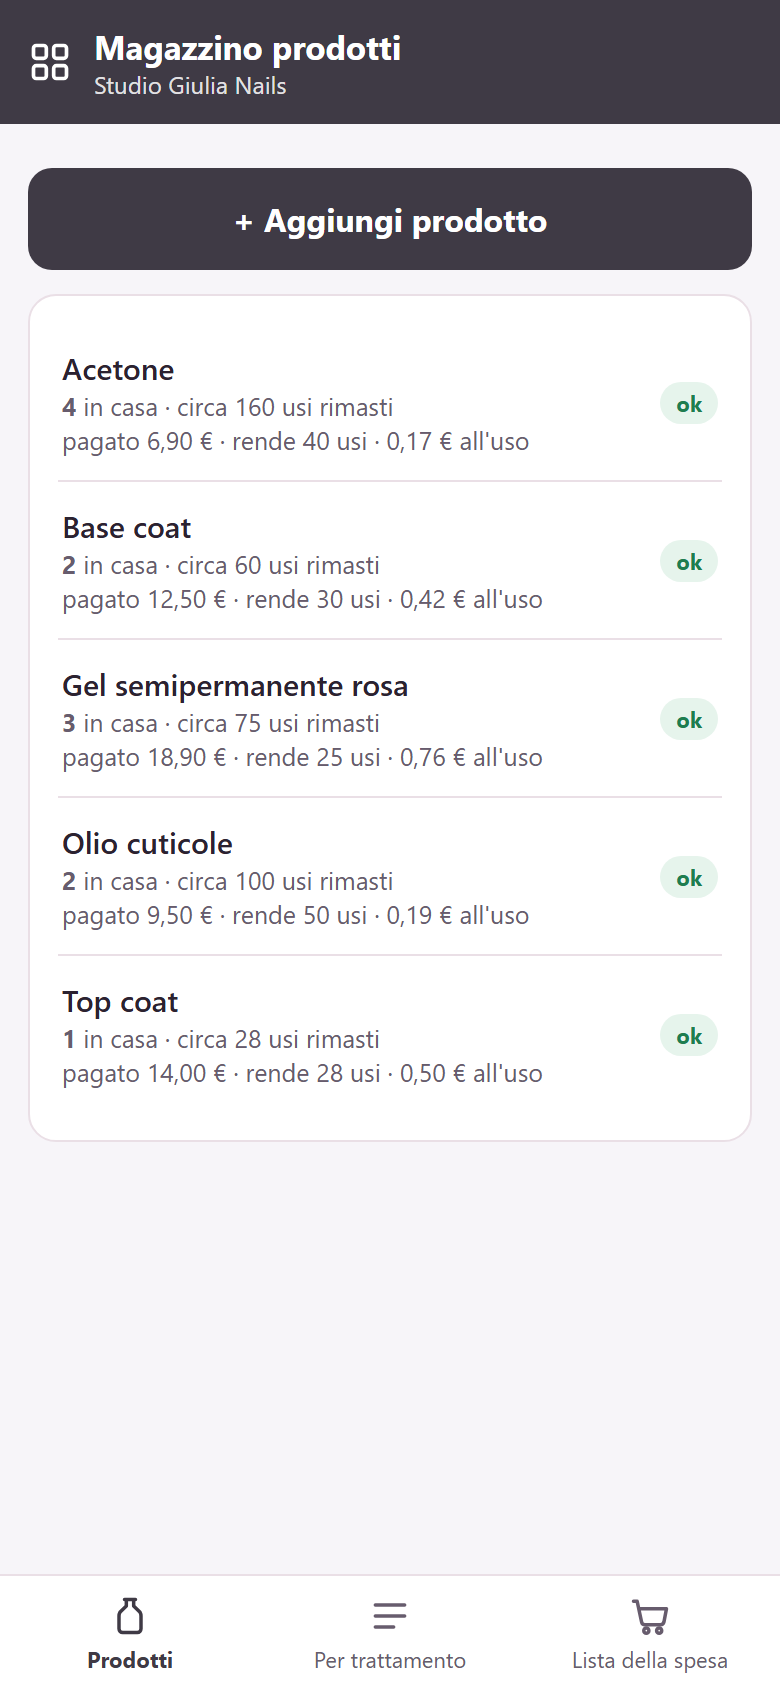
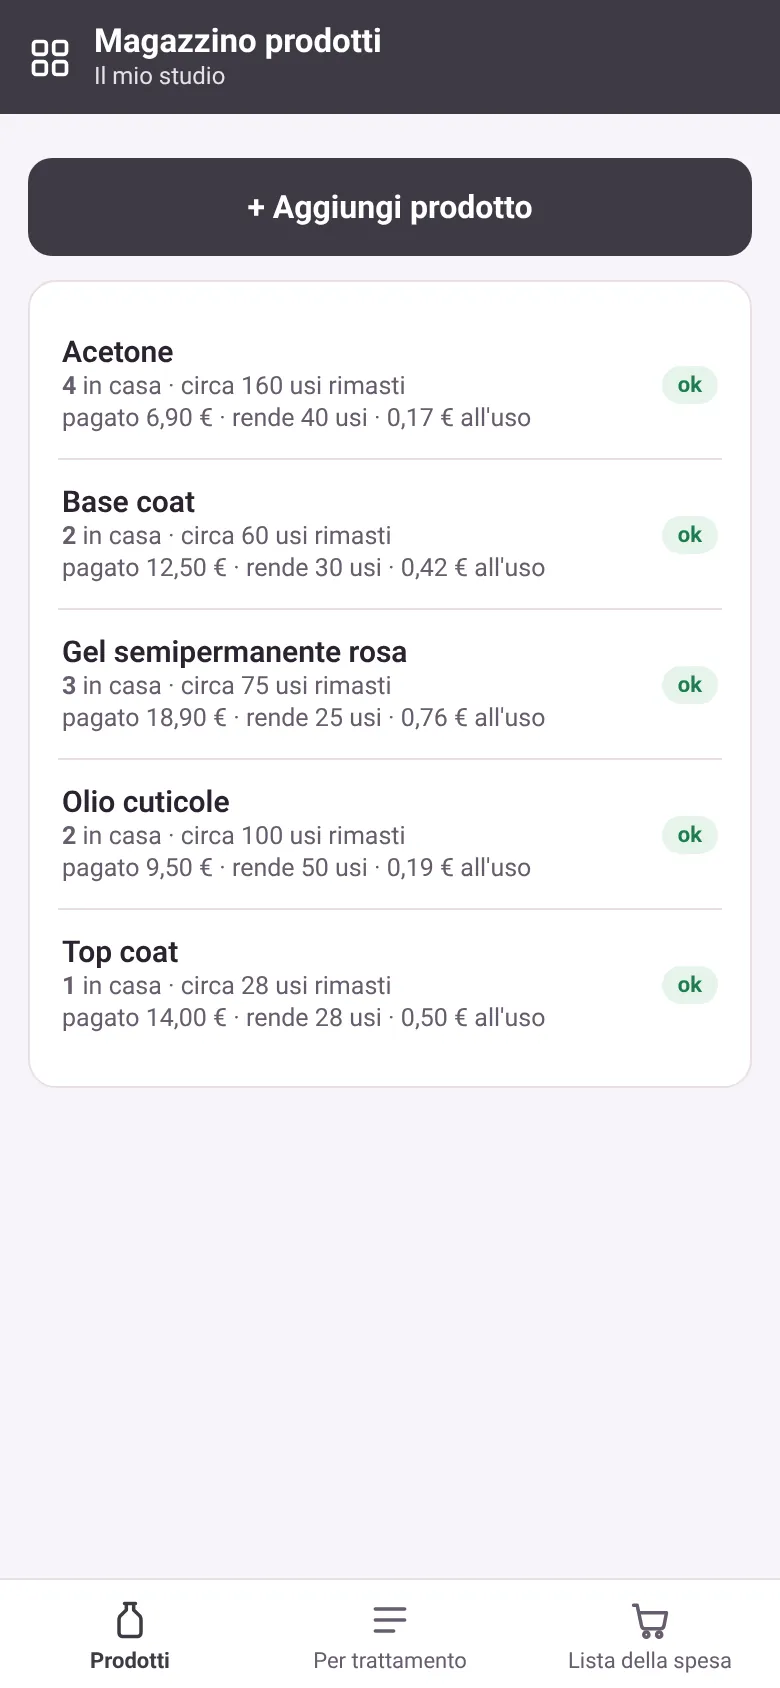
Guadagno in Mano: prints Il mio studio e LCP

diff --git a/index.html b/index.html
@@ -8,9 +8,9 @@
 <meta name="theme-color" content="#18161B">
 <meta name="robots" content="noindex">
 <link rel="preload" href="font/outfit-700-latin.woff2" as="font" type="font/woff2" crossorigin>
-<link rel="preload" as="image" href="img/foto-hero-800.webp" imagesrcset="img/foto-hero-800.webp 800w, img/foto-hero-1600.webp 1600w" imagesizes="100vw" fetchpriority="high">
+<link rel="preload" as="image" type="image/avif" href="img/foto-hero-800.avif" imagesrcset="img/foto-hero-480.avif 480w, img/foto-hero-800.avif 800w, img/foto-hero-1440.avif 1440w" imagesizes="100vw" fetchpriority="high">
 <!-- LP v2 · 20/11/2026 · Designer de LP. Copy: studio-it/copy-lp-v2.md (SHA-256 cacb906a…). Briefing: lp-v2/briefing-redesign.md (9554bc14…).
-     Rodada 2 (20/11): Parte A de copy-pendentes.md (6af270e9…). Rodada 12: 3º bump Agenda e clienti. Rodada 10: «Niente abbonamento» no card da oferta. Rodada 9: PIXEL_ID e PAINEL_K da Guadagno ligados no localhost. Rodada 8: PREZZO 24,90 €; bumps 9,90 / 14,90 €; faixa de status no mockup; UTM no sessionStorage. Rodada 7: esteira contínua sem setas; PRINTS_OK=true (8 webp, listino refeito). Rodada 6c: resposta fatture/tasse travada (faq-fatture-v1, 44165ce7). Rodada 6b: FAQ — internet fora (OK Copywriter); fatture+tasse juntadas. Rodada 6: hero-duo unha+estética, overlay mais claro, FAQ 8, seção 9 compacta. Rodada 5: copy-lp-v3f (5657fca5…), GARANZIA=14 / SUPPORTO. Rodada 4: copy-lp-v3d (e684f3d7…) + validacao-cortes-v2 (86bd68c9…); GARANZIA vazia; selos Carta/PayPal. Rodada 3b: copy-lp-v3b (c4671a7f…), PREZZO vazio = sem preço visível. Rodada 3: skill lp-designer modelo 01; sem etiquetas de exemplo; bumps sem preço; PREZZO e CHECKOUT_URL num lugar só. Pendências escondidas aparecem só com ?dev=1. -->
+     Rodada 2 (20/11): Parte A de copy-pendentes.md (6af270e9…). Rodada 13: prints Il mio studio e LCP (hero AVIF/WebP responsivo, lazy abaixo da dobra). Rodada 12: 3º bump Agenda e clienti. Rodada 10: «Niente abbonamento» no card da oferta. Rodada 9: PIXEL_ID e PAINEL_K da Guadagno ligados no localhost. Rodada 8: PREZZO 24,90 €; bumps 9,90 / 14,90 €; faixa de status no mockup; UTM no sessionStorage. Rodada 7: esteira contínua sem setas; PRINTS_OK=true (8 webp, listino refeito). Rodada 6c: resposta fatture/tasse travada (faq-fatture-v1, 44165ce7). Rodada 6b: FAQ — internet fora (OK Copywriter); fatture+tasse juntadas. Rodada 6: hero-duo unha+estética, overlay mais claro, FAQ 8, seção 9 compacta. Rodada 5: copy-lp-v3f (5657fca5…), GARANZIA=14 / SUPPORTO. Rodada 4: copy-lp-v3d (e684f3d7…) + validacao-cortes-v2 (86bd68c9…); GARANZIA vazia; selos Carta/PayPal. Rodada 3b: copy-lp-v3b (c4671a7f…), PREZZO vazio = sem preço visível. Rodada 3: skill lp-designer modelo 01; sem etiquetas de exemplo; bumps sem preço; PREZZO e CHECKOUT_URL num lugar só. Pendências escondidas aparecem só com ?dev=1. -->
 <style>
 [hidden]{display:none!important}
 @font-face{font-family:'Outfit';font-weight:700;font-style:normal;font-display:swap;src:url(font/outfit-700-latin.woff2) format('woff2')}
@@ -36,7 +36,7 @@ section{padding:32px 0}
 /* HERO */
 .hero{position:relative;color:#fff;background:var(--profundo);overflow:hidden;padding:16px 0 28px}
 .hero-bg{position:absolute;inset:0;z-index:0}
-.hero-bg img{width:100%;height:100%;object-fit:cover;object-position:50% 18%}
+.hero-bg picture{display:block;width:100%;height:100%}.hero-bg img{width:100%;height:100%;object-fit:cover;object-position:50% 18%}
 .hero-bg{height:min(100%,980px)}.hero-bg:after{content:"";position:absolute;inset:0;background:linear-gradient(180deg,rgba(24,22,27,.42) 0%,rgba(24,22,27,.55) 32%,rgba(24,22,27,.78) 68%,#18161B 100%)}
 .hero .w{position:relative;z-index:1;display:grid;gap:0}
 .marca-riga{display:flex;align-items:center;gap:10px;flex-wrap:wrap;margin-bottom:14px}.marca{height:28px;width:auto}.descr{font:600 13px/1.2 var(--sans);color:rgba(255,255,255,.85)}
@@ -281,10 +281,13 @@ footer a{color:#d9d4de;text-decoration:none;margin:0 8px;display:inline-block;pa
 
 <!-- B1 · HERO -->
 <header class="hero">
-  <div class="hero-bg"><img src="img/foto-hero-800.webp" srcset="img/foto-hero-800.webp 800w, img/foto-hero-1600.webp 1600w" sizes="100vw" width="800" height="874" alt="A sinistra una manicure con la lampada UV, a destra un trattamento viso in cabina." fetchpriority="high"></div>
+  <div class="hero-bg"><picture>
+<source type="image/avif" srcset="img/foto-hero-480.avif 480w, img/foto-hero-800.avif 800w, img/foto-hero-1440.avif 1440w" sizes="100vw">
+<img src="img/foto-hero-800.webp" srcset="img/foto-hero-480.webp 480w, img/foto-hero-800.webp 800w, img/foto-hero-1440.webp 1440w" sizes="100vw" width="800" height="874" alt="A sinistra una manicure con la lampada UV, a destra un trattamento viso in cabina." fetchpriority="high">
+</picture></div>
   <div class="w">
     <div class="testo">
-      <div class="marca-riga"><img class="marca" src="img/gim-logo-branca.png" alt="Guadagno in Mano" height="28"><span class="descr">per estetiste e onicotecniche</span></div>
+      <div class="marca-riga"><img class="marca" src="img/gim-logo-branca.png" alt="Guadagno in Mano" height="28" width="111" decoding="async"><span class="descr">per estetiste e onicotecniche</span></div>
       <!-- [COPY v2 §0 headline] -->
       <h1>Lavori tutto il giorno e a fine mese <span class="serif">non ti rimane niente?</span></h1>
       <!-- [COPY v2 §0 sub, cortado] -->
@@ -296,8 +299,8 @@ footer a{color:#d9d4de;text-decoration:none;margin:0 8px;display:inline-block;pa
         <span class="chip"><svg class="ic"><use href="#i-check"/></svg>Paghi una volta</span>
       </div>
       <div class="hero-duo" aria-hidden="true">
-        <img src="img/foto-hero-unha-800.webp" srcset="img/foto-hero-unha-800.webp 800w, img/foto-hero-unha-1200.webp 1200w" sizes="(min-width:960px) 230px, 46vw" width="800" height="500" alt="" decoding="async">
-        <img src="img/foto-hero-viso-800.webp" srcset="img/foto-hero-viso-800.webp 800w, img/foto-hero-viso-1200.webp 1200w" sizes="(min-width:960px) 230px, 46vw" width="800" height="500" alt="" decoding="async">
+        <img src="img/foto-hero-unha-400.webp" srcset="img/foto-hero-unha-400.webp 400w, img/foto-hero-unha-800.webp 800w, img/foto-hero-unha-1200.webp 1200w" sizes="(min-width:960px) 230px, 46vw" width="800" height="500" alt="" decoding="async" fetchpriority="low">
+        <img src="img/foto-hero-viso-400.webp" srcset="img/foto-hero-viso-400.webp 400w, img/foto-hero-viso-800.webp 800w, img/foto-hero-viso-1200.webp 1200w" sizes="(min-width:960px) 230px, 46vw" width="800" height="500" alt="" decoding="async" fetchpriority="low">
       </div>
     </div>
 
@@ -308,10 +311,10 @@ footer a{color:#d9d4de;text-decoration:none;margin:0 8px;display:inline-block;pa
           <div class="st-palco">
             <div class="st-trilha">
             <!-- legendas: COPY v2 §3 + copy-pendentes A2 -->
-            <div class="st-parte on" data-rot="Finita la cliente, la registri in pochi tocchi"><div class="tela" data-slot="t-registra-pagamento"><img data-print="img/app/t-registra-pagamento.webp" alt="Schermata dell'app: si sceglie come ha pagato la cliente." decoding="async"><span class="slot">PENDENTE CONSTRUTOR<small>t-registra-pagamento.webp</small></span></div></div>
-            <div class="st-parte" data-rot="Il guadagno lo vedi subito"><div class="tela" data-slot="t-registrato"><img data-print="img/app/t-registrato.webp" alt="Schermata dell'app dopo la registrazione: il guadagno del trattamento." decoding="async"><span class="slot">PENDENTE CONSTRUTOR<small>t-registrato.webp</small></span></div></div>
-            <div class="st-parte" data-rot="Aggiungi i tuoi trattamenti"><div class="tela" data-slot="t-trattamenti"><img data-print="img/app/t-trattamenti.webp" alt="Schermata Trattamenti: prezzo, materiale e guadagno di ognuno." decoding="async"><span class="slot">PENDENTE CONSTRUTOR<small>t-trattamenti.webp</small></span></div></div>
-            <div class="st-parte" data-rot="A fine mese, il riepilogo"><div class="tela" data-slot="t-riepilogo"><img data-print="img/app/t-riepilogo.webp" alt="Schermata Riepilogo del mese." decoding="async"><span class="slot">PENDENTE CONSTRUTOR<small>t-riepilogo.webp</small></span></div></div>
+            <div class="st-parte on" data-rot="Finita la cliente, la registri in pochi tocchi"><div class="tela" data-slot="t-registra-pagamento"><img data-print="img/app/t-registra-pagamento.webp" alt="Schermata dell'app: si sceglie come ha pagato la cliente." decoding="async" fetchpriority="low"><span class="slot">PENDENTE CONSTRUTOR<small>t-registra-pagamento.webp</small></span></div></div>
+            <div class="st-parte" data-rot="Il guadagno lo vedi subito"><div class="tela" data-slot="t-registrato"><img data-print="img/app/t-registrato.webp" alt="Schermata dell'app dopo la registrazione: il guadagno del trattamento." loading="lazy" decoding="async"><span class="slot">PENDENTE CONSTRUTOR<small>t-registrato.webp</small></span></div></div>
+            <div class="st-parte" data-rot="Aggiungi i tuoi trattamenti"><div class="tela" data-slot="t-trattamenti"><img data-print="img/app/t-trattamenti.webp" alt="Schermata Trattamenti: prezzo, materiale e guadagno di ognuno." loading="lazy" decoding="async"><span class="slot">PENDENTE CONSTRUTOR<small>t-trattamenti.webp</small></span></div></div>
+            <div class="st-parte" data-rot="A fine mese, il riepilogo"><div class="tela" data-slot="t-riepilogo"><img data-print="img/app/t-riepilogo.webp" alt="Schermata Riepilogo del mese." loading="lazy" decoding="async"><span class="slot">PENDENTE CONSTRUTOR<small>t-riepilogo.webp</small></span></div></div>
             </div>
             <button class="st-btn" type="button" aria-label="Scorri le schermate"></button>
           </div>
@@ -356,7 +359,7 @@ footer a{color:#d9d4de;text-decoration:none;margin:0 8px;display:inline-block;pa
       </div>
     </div>
     <div class="foto-r rivela">
-      <img src="img/foto-materiale-700.webp" srcset="img/foto-materiale-700.webp 700w, img/foto-materiale-1200.webp 1200w" sizes="(min-width:960px) 540px, 100vw" loading="lazy" width="700" height="640" alt="Mani dell'onicotecnica che lavorano sulle unghie della cliente, con i flaconi sul banco.">
+      <img src="img/foto-materiale-700.webp" srcset="img/foto-materiale-700.webp 700w, img/foto-materiale-1200.webp 1200w" sizes="(min-width:960px) 540px, 100vw" loading="lazy" decoding="async" width="700" height="640" alt="Mani dell'onicotecnica che lavorano sulle unghie della cliente, con i flaconi sul banco.">
       <!-- valores dentro das faixas do publico.md 9.2; rótulos copy-pendentes A4 -->
       <div class="ricevuta">
         <div class="t">Semipermanente mani</div>
@@ -373,17 +376,17 @@ footer a{color:#d9d4de;text-decoration:none;margin:0 8px;display:inline-block;pa
   <div class="w">
     <h2 class="rivela">Come <span class="serif">funziona</span></h2>
     <div class="trilho" data-trilho tabindex="0" role="region" aria-roledescription="carrossel" aria-label="Le schermate di Guadagno in Mano">
-      <figure class="slide"><div class="cel"><div class="vetro"><span class="isola"></span><div class="tela" data-slot="t-registra-pagamento"><img data-print="img/app/t-registra-pagamento.webp" loading="lazy" alt="Registrare un trattamento: come ha pagato la cliente."><span class="slot">PENDENTE CONSTRUTOR<small>t-registra-pagamento.webp</small></span></div></div></div>
+      <figure class="slide"><div class="cel"><div class="vetro"><span class="isola"></span><div class="tela" data-slot="t-registra-pagamento"><img data-print="img/app/t-registra-pagamento.webp" loading="lazy" decoding="async" alt="Registrare un trattamento: come ha pagato la cliente."><span class="slot">PENDENTE CONSTRUTOR<small>t-registra-pagamento.webp</small></span></div></div></div>
         <figcaption><b><span class="num">1</span>Registri in pochi tocchi</b>Il trattamento, come ti ha pagato e, se serve, il nome.</figcaption></figure>
-      <figure class="slide"><div class="cel"><div class="vetro"><span class="isola"></span><div class="tela" data-slot="t-registrato"><img data-print="img/app/t-registrato.webp" loading="lazy" alt="Il guadagno del trattamento appena registrato."><span class="slot">PENDENTE CONSTRUTOR<small>t-registrato.webp</small></span></div></div></div>
+      <figure class="slide"><div class="cel"><div class="vetro"><span class="isola"></span><div class="tela" data-slot="t-registrato"><img data-print="img/app/t-registrato.webp" loading="lazy" decoding="async" alt="Il guadagno del trattamento appena registrato."><span class="slot">PENDENTE CONSTRUTOR<small>t-registrato.webp</small></span></div></div></div>
         <figcaption><b><span class="num">2</span>Il guadagno, subito</b>Quanto guadagni su ogni trattamento, tolto il materiale.</figcaption></figure>
-      <figure class="slide"><div class="cel"><div class="vetro"><span class="isola"></span><div class="tela" data-slot="t-trattamenti"><img data-print="img/app/t-trattamenti.webp" loading="lazy" alt="Lista Trattamenti con prezzo e materiale."><span class="slot">PENDENTE CONSTRUTOR<small>t-trattamenti.webp</small></span></div></div></div>
+      <figure class="slide"><div class="cel"><div class="vetro"><span class="isola"></span><div class="tela" data-slot="t-trattamenti"><img data-print="img/app/t-trattamenti.webp" loading="lazy" decoding="async" alt="Lista Trattamenti con prezzo e materiale."><span class="slot">PENDENTE CONSTRUTOR<small>t-trattamenti.webp</small></span></div></div></div>
         <figcaption><b><span class="num">3</span>I tuoi trattamenti</b>Se il prezzo non copre il materiale, l'app te lo dice.</figcaption></figure>
-      <figure class="slide"><div class="cel"><div class="vetro"><span class="isola"></span><div class="tela" data-slot="t-da-incassare"><img data-print="img/app/t-da-incassare.webp" loading="lazy" alt="Importi da incassare, anche a rate."><span class="slot">PENDENTE CONSTRUTOR<small>t-da-incassare.webp</small></span></div></div></div>
+      <figure class="slide"><div class="cel"><div class="vetro"><span class="isola"></span><div class="tela" data-slot="t-da-incassare"><img data-print="img/app/t-da-incassare.webp" loading="lazy" decoding="async" alt="Importi da incassare, anche a rate."><span class="slot">PENDENTE CONSTRUTOR<small>t-da-incassare.webp</small></span></div></div></div>
         <figcaption><b><span class="num">4</span>Da incassare</b>Chi ti deve ancora pagare e quanto, anche a rate.</figcaption></figure>
-      <figure class="slide"><div class="cel"><div class="vetro"><span class="isola"></span><div class="tela" data-slot="t-spese"><img data-print="img/app/t-spese.webp" loading="lazy" alt="Le spese del mese."><span class="slot">PENDENTE CONSTRUTOR<small>t-spese.webp</small></span></div></div></div>
+      <figure class="slide"><div class="cel"><div class="vetro"><span class="isola"></span><div class="tela" data-slot="t-spese"><img data-print="img/app/t-spese.webp" loading="lazy" decoding="async" alt="Le spese del mese."><span class="slot">PENDENTE CONSTRUTOR<small>t-spese.webp</small></span></div></div></div>
         <figcaption><b><span class="num">5</span>Le spese del mese</b>Affitto, luce, POS, INPS: le segni quando le paghi.</figcaption></figure>
-      <figure class="slide"><div class="cel"><div class="vetro"><span class="isola"></span><div class="tela" data-slot="t-riepilogo"><img data-print="img/app/t-riepilogo.webp" loading="lazy" alt="Riepilogo del mese."><span class="slot">PENDENTE CONSTRUTOR<small>t-riepilogo.webp</small></span></div></div></div>
+      <figure class="slide"><div class="cel"><div class="vetro"><span class="isola"></span><div class="tela" data-slot="t-riepilogo"><img data-print="img/app/t-riepilogo.webp" loading="lazy" decoding="async" alt="Riepilogo del mese."><span class="slot">PENDENTE CONSTRUTOR<small>t-riepilogo.webp</small></span></div></div></div>
         <figcaption><b><span class="num">6</span>A fine mese, il riepilogo</b>Incassato, spese e quanto ti rimane davvero.</figcaption></figure>
     </div>
     <div class="pontos" data-pontos></div>
@@ -397,7 +400,7 @@ footer a{color:#d9d4de;text-decoration:none;margin:0 8px;display:inline-block;pa
 
 <!-- B5 · DA SOLA [COPY v2 §4b] -->
 <section class="dasola">
-  <img src="img/foto-da-sola-800.webp" srcset="img/foto-da-sola-800.webp 800w, img/foto-da-sola-1400.webp 1400w" sizes="100vw" loading="lazy" width="800" height="510" alt="Un'estetista da sola nella sua cabina, durante un trattamento viso.">
+  <img src="img/foto-da-sola-800.webp" srcset="img/foto-da-sola-800.webp 800w, img/foto-da-sola-1400.webp 1400w" sizes="100vw" loading="lazy" decoding="async" width="800" height="510" alt="Un'estetista da sola nella sua cabina, durante un trattamento viso.">
   <div class="w">
     <h2 class="rivela">Pensata per chi <span class="serif">lavora da sola</span></h2>
     <p>Apri l'app dal telefono, registri la cliente e torni al lavoro.</p>
@@ -410,15 +413,15 @@ footer a{color:#d9d4de;text-decoration:none;margin:0 8px;display:inline-block;pa
     <h2 class="rivela">Se vuoi, <span class="serif">aggiungi</span> al tuo ordine</h2>
     <div class="bumps">
       <div class="bump rivela">
-        <div class="cel"><div class="vetro"><span class="isola"></span><div class="tela" data-slot="bump-magazzino"><img data-print="img/app/bump-magazzino.webp" loading="lazy" alt="Schermata Magazzino prodotti."><span class="slot">PENDENTE CONSTRUTOR<small>bump-magazzino.webp</small></span></div></div></div>
+        <div class="cel"><div class="vetro"><span class="isola"></span><div class="tela" data-slot="bump-magazzino"><img data-print="img/app/bump-magazzino.webp" loading="lazy" decoding="async" alt="Schermata Magazzino prodotti."><span class="slot">PENDENTE CONSTRUTOR<small>bump-magazzino.webp</small></span></div></div></div>
         <div><div class="bump-meta"><span class="tag">Facoltativo</span><span class="bump-prezzo" data-prezzo-bump="magazzino"></span></div><h3>Magazzino prodotti</h3><p>Sai quali prodotti stanno finendo prima di restare senza.</p></div>
       </div>
       <div class="bump rivela">
-        <div class="cel"><div class="vetro"><span class="isola"></span><div class="tela" data-slot="bump-listino"><img data-print="img/app/bump-listino.webp" loading="lazy" alt="Listino prezzi pronto da mandare."><span class="slot">PENDENTE CONSTRUTOR<small>bump-listino.webp</small></span></div></div></div>
+        <div class="cel"><div class="vetro"><span class="isola"></span><div class="tela" data-slot="bump-listino"><img data-print="img/app/bump-listino.webp" loading="lazy" decoding="async" alt="Listino prezzi pronto da mandare."><span class="slot">PENDENTE CONSTRUTOR<small>bump-listino.webp</small></span></div></div></div>
         <div><div class="bump-meta"><span class="tag">Facoltativo</span><span class="bump-prezzo" data-prezzo-bump="listino"></span></div><h3>Listino prezzi</h3><p>Il tuo listino, con i tuoi prezzi, pronto da mandare alle clienti.</p></div>
       </div>
       <div class="bump rivela">
-        <div class="cel"><div class="vetro"><span class="isola"></span><div class="tela" data-slot="bump-agenda"><img data-print="img/app/agenda.webp" loading="lazy" alt="Schermata Agenda e clienti: gli appuntamenti della settimana."><span class="slot">PENDENTE CONSTRUTOR<small>agenda.webp</small></span></div></div></div>
+        <div class="cel"><div class="vetro"><span class="isola"></span><div class="tela" data-slot="bump-agenda"><img data-print="img/app/agenda.webp" loading="lazy" decoding="async" alt="Schermata Agenda e clienti: gli appuntamenti della settimana."><span class="slot">PENDENTE CONSTRUTOR<small>agenda.webp</small></span></div></div></div>
         <div><div class="bump-meta"><span class="tag">Facoltativo</span><span class="bump-prezzo" data-prezzo-bump="agenda"></span></div><h3>Agenda e clienti</h3><p>Gli appuntamenti della settimana e il promemoria pronto su WhatsApp.</p></div>
       </div>
     </div>
@@ -493,7 +496,7 @@ footer a{color:#d9d4de;text-decoration:none;margin:0 8px;display:inline-block;pa
 
 <!-- B11 · CTA FINAL [COPY v2 §11] -->
 <section class="fine">
-  <img src="img/foto-fine-800.webp" srcset="img/foto-fine-800.webp 800w, img/foto-fine-1067.webp 1067w" sizes="100vw" loading="lazy" width="800" height="660" alt="Manicure su un tavolo di casa, con luce naturale.">
+  <img src="img/foto-fine-800.webp" srcset="img/foto-fine-800.webp 800w, img/foto-fine-1067.webp 1067w" sizes="100vw" loading="lazy" decoding="async" width="800" height="660" alt="Manicure su un tavolo di casa, con luce naturale.">
   <div class="w">
     <h2 class="rivela">Dalla prossima cliente, sai quanto guadagni <span class="serif">davvero.</span></h2>
     <p class="prezzo"><span data-riga-prezzo><b data-prezzo></b> una volta sola · </span><span data-riga-garanzia><span data-g></span> soddisfatti o rimborsati</span></p>
@@ -596,9 +599,41 @@ var PAINEL_K = '87e31ddf7f36a3098e38fde1d7ba4b5e'; /* Chave k= da Guadagno, libe
 var PRINTS_OK = true;
 (function(){
   var q = new URLSearchParams(location.search), ver = PRINTS_OK || (q.get('dev') === '1' && q.get('prints') === '1');
-  document.querySelectorAll('img[data-print]').forEach(function(i){
-    if (ver) i.src = i.getAttribute('data-print');
-    else { var t = i.closest('.tela'); if (t) t.classList.add('vuoto'); i.style.display = 'none'; }
+  var prints = [].slice.call(document.querySelectorAll('img[data-print]'));
+  function assignPrint(i){
+    var src = i.getAttribute('data-print');
+    if (!src || i.getAttribute('src') === src) return;
+    i.src = src;
+  }
+  function makeIo(root, margin){
+    if (!('IntersectionObserver' in window)) return null;
+    return new IntersectionObserver(function(entries){
+      entries.forEach(function(en){
+        if (!en.isIntersecting) return;
+        assignPrint(en.target);
+        en.target._gimIo && en.target._gimIo.unobserve(en.target);
+      });
+    }, { root: root || null, rootMargin: margin || '120px 0px' });
+  }
+  var ioPrints = makeIo(null, '120px 0px');
+  var ioStory = {};
+  window.gimObservePrint = function(img){
+    if (!img || !ver) return;
+    img.decoding = 'async';
+    var first = img.closest('.st-parte.on');
+    if (first && !first.previousElementSibling) { assignPrint(img); return; }
+    var palco = img.closest('.st-palco');
+    if (palco) {
+      if (!ioStory.current || ioStory.root !== palco) { ioStory.current = makeIo(palco, '0px 40px'); ioStory.root = palco; }
+      img._gimIo = ioStory.current;
+      if (ioStory.current) { ioStory.current.observe(img); return; }
+    }
+    if (ioPrints) { img._gimIo = ioPrints; ioPrints.observe(img); }
+    else { img.loading = 'lazy'; assignPrint(img); }
+  };
+  prints.forEach(function(i){
+    if (!ver) { var t = i.closest('.tela'); if (t) t.classList.add('vuoto'); i.style.display = 'none'; return; }
+    window.gimObservePrint(i);
   });
 })();
 
@@ -663,6 +698,9 @@ document.querySelectorAll('.tela').forEach(function(t){
     var partes = [].slice.call(trilha.querySelectorAll('.st-parte'));
     var n = partes.length; if (!n) return;
     partes.forEach(function(p){ trilha.appendChild(p.cloneNode(true)); });
+    trilha.querySelectorAll('img[data-print]').forEach(function(img){
+      if (window.gimObservePrint) window.gimObservePrint(img);
+    });
     if (pts) {
       for (var i = 0; i < n; i++) { var d = document.createElement('i'); d.setAttribute('aria-hidden','true'); pts.appendChild(d); }
     }
@@ -718,6 +756,9 @@ document.querySelectorAll('.tela').forEach(function(t){
       pts.appendChild(d);
     }
     cards.forEach(function(c){ t.appendChild(c.cloneNode(true)); });
+    t.querySelectorAll('img[data-print]').forEach(function(img){
+      if (window.gimObservePrint) window.gimObservePrint(img);
+    });
     api = esteiraScroll(t, pts, n);
     var x0 = 0, s0 = 0, mov = false;
     t.addEventListener('pointerdown', function(e){
